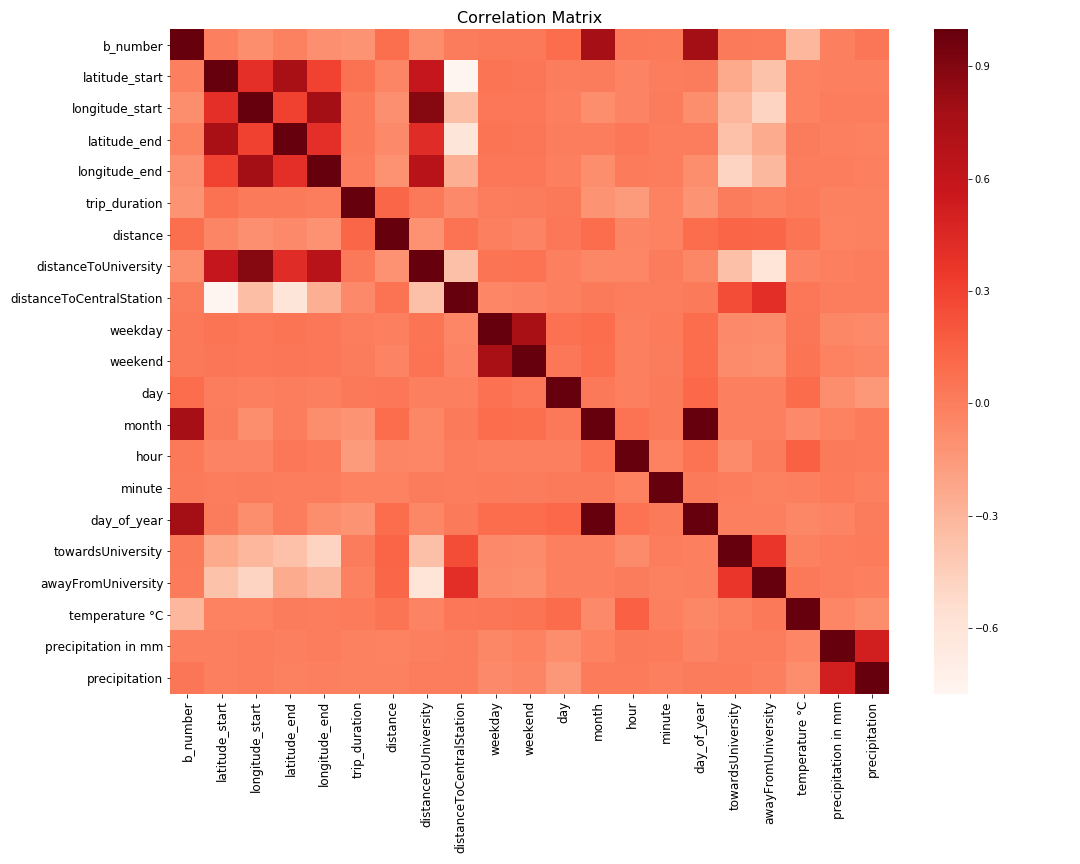
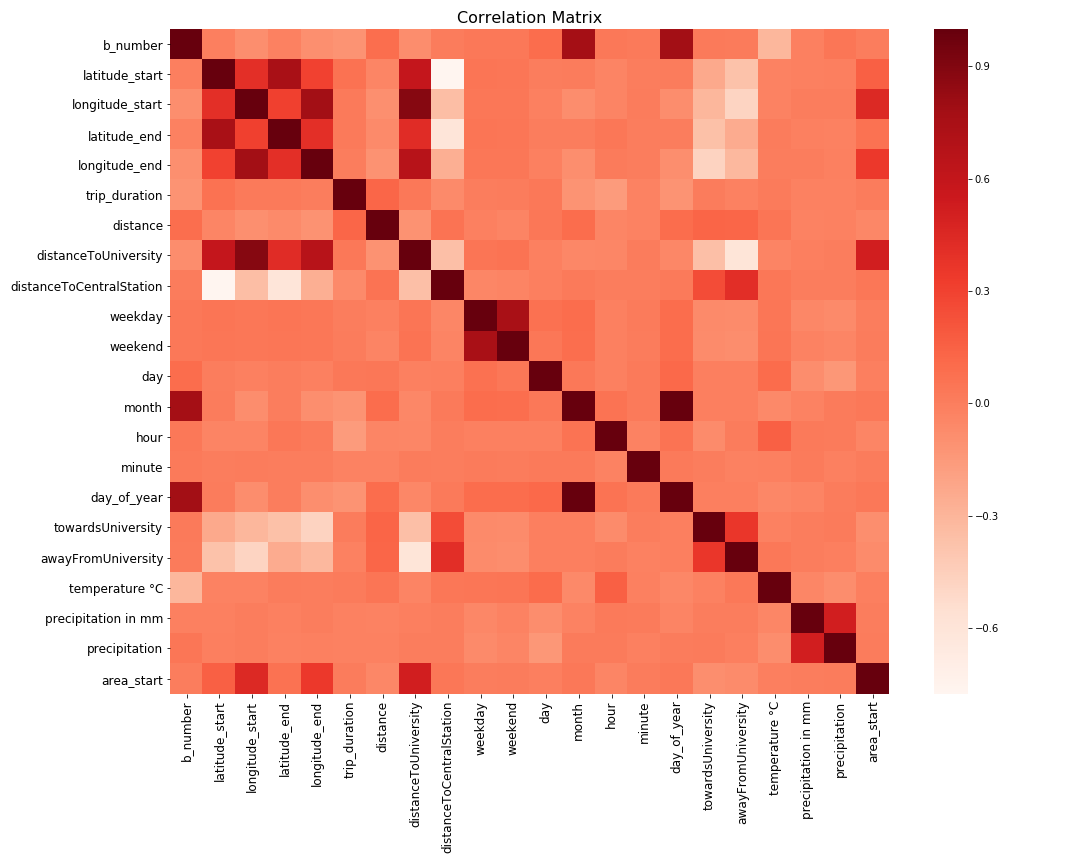
- CLI-train argument divided in duration/destination/both

diff --git a/nextbike/model/ensemble/random_forest.py b/nextbike/model/ensemble/random_forest.py
@@ -1,8 +1,56 @@
 from sklearn.model_selection import train_test_split
 from sklearn.ensemble import RandomForestClassifier
+from sklearn.metrics import mean_squared_error, mean_absolute_error
+from sklearn.preprocessing import StandardScaler
 from sklearn.model_selection import RandomizedSearchCV
+from sklearn.ensemble import RandomForestRegressor
 
 import numpy as np
+import time
+
+
+def __init__(df):
+    # best features so far
+    X = df[["month", "weekday", "day_of_year", "hour", "minute", "latitude_start", "longitude_start",
+            "area_start", "temperature °C", "precipitation", "distanceToUniversity", "distanceToCentralStation"]]
+
+    y = df["trip_duration"]
+    # split data / cross validation
+    X_train, X_test, y_train, y_test = train_test_split(X, y, test_size=0.3, random_state=42)
+
+    return {
+        'X_train': X_train,
+        'X_test': X_test,
+        'y_train': y_train,
+        'y_test': y_test
+    }
+
+
+def train(init):
+    start = time.time()  # to measure execution time
+
+    # scaling the data
+    scaler = StandardScaler()
+    scaler.fit(init['X_train'])
+    X_train_scaled = scaler.transform(init['X_train'])
+
+    scaler.fit(init['X_test'])
+    X_test_scaled = scaler.transform(init['X_test'])
+
+    # fitting a random forrest regressor
+    rfr = RandomForestRegressor(max_features="auto", n_estimators=1155, max_depth=70, min_samples_split=10,
+                                min_samples_leaf=8, bootstrap=True)
+    print('init training parameters')
+    rfr.fit(X_train_scaled, init['y_train'])
+    pred = rfr.predict(X_test_scaled)
+    pred_train = rfr.predict(X_train_scaled)
+    print('Training done')
+
+    _get_results(rfr, X_train_scaled, pred_train, X_test_scaled, pred, init)
+    end = time.time()
+    execution_time = (end - start) / 60
+
+    print('execution time:', execution_time)
 
 
 def optimize_hyper_parameters_random_forest(X, y):
@@ -38,3 +86,15 @@ def optimize_hyper_parameters_random_forest(X, y):
     rfc_random.fit(X_train, y_train)
     # print results
     print(rfc_random.best_params_)
+
+
+def _get_results(model,X_train_scaled,pred_train,X_test_scaled, pred, init):
+    print("w/o cross-validation:")
+    print("R^2-Score is: {}".format(model.score(X_train_scaled, init['y_train'])))
+    print("RMSE: {}".format(np.sqrt(mean_squared_error(init['y_train'], pred_train))))
+    print("MAE: {}".format(mean_absolute_error(init['y_train'], pred_train)))
+    print("")
+    print("w/ cross-validation")
+    print("R2-Score is: {}".format(model.score(X_test_scaled, init['y_test'])))
+    print("RMSE: {}".format(np.sqrt(mean_squared_error(init['y_test'], pred))))
+    print("MAE: {}".format(mean_absolute_error(init['y_test'], pred)))

diff --git a/nextbike/cli/train/train.py b/nextbike/cli/train/train.py
@@ -1,6 +1,7 @@
 import click
 from nextbike.constants import HEAD
-from nextbike.model.regression.linear_regression import __init__, linear_regression
+from nextbike.model.ensemble import random_forest
+from nextbike.model.clustering import cluster
 from nextbike.preprocessing import get_trip_data
 
 HELP_MODEL = """
@@ -14,14 +15,21 @@ IF NOT.. THE BEST MODEL WILL BE CHOOSEN
 
 @click.command()
 @click.argument('path', type=click.Path('rb'))
-@click.option('model-type', type=click.Choice(['linear', 'polynomial', 'svr'], case_sensitive=False), help=HELP_MODEL)
+@click.option('model-type', type=click.Choice(['duration', 'destination', 'both'], case_sensitive=False),
+              help=HELP_MODEL)
 def train(path, model):
     """
     DESCRIPTION HERE
     """
+    if model == 'duration':
+        file = HEAD + path
+        df = get_trip_data(file, with_weather=True, head=True)
+        click.echo('Dataframe is loaded from ' + file)
+        df = cluster.__get_X_scaled(df)
+        init = random_forest.__init__(df)
+        random_forest.train(init)
+    if model == 'destination':
+        pass
+    else:
+        pass
 
-    ll = HEAD + path
-    click.echo('Dataframe loaded from ' + ll)
-    df = get_trip_data(ll, with_weather=True, head=True)
-    init = __init__(df)
-    linear_regression(init)

diff --git a/nextbike/model/clustering/cluster.py b/nextbike/model/clustering/cluster.py
@@ -32,3 +32,13 @@ def elbow_method(df):
     return {
         'X_scaled': X_scaled
     }
+
+
+def __get_X_scaled(df):
+    st_scaler = StandardScaler()
+    X_scaled = st_scaler.fit_transform(df[["latitude_start", "longitude_start"]])
+    km = KMeans(n_clusters=4)
+    km.fit(X_scaled)
+    df["area_start"] = km.predict(X_scaled) + 1
+    return df
+
